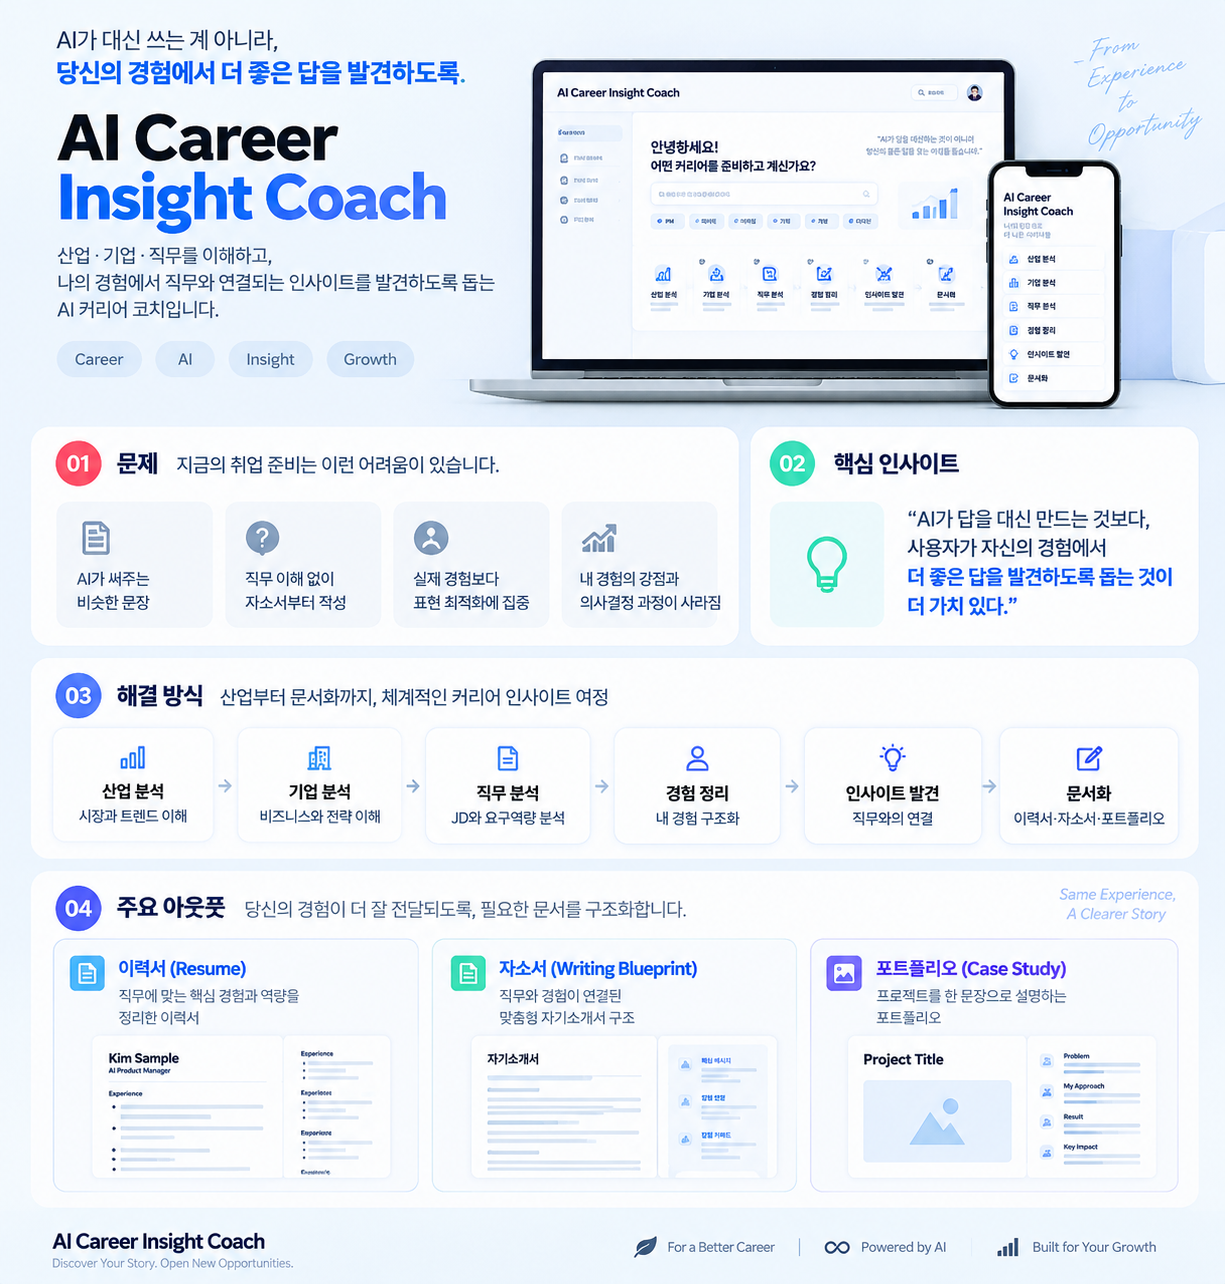
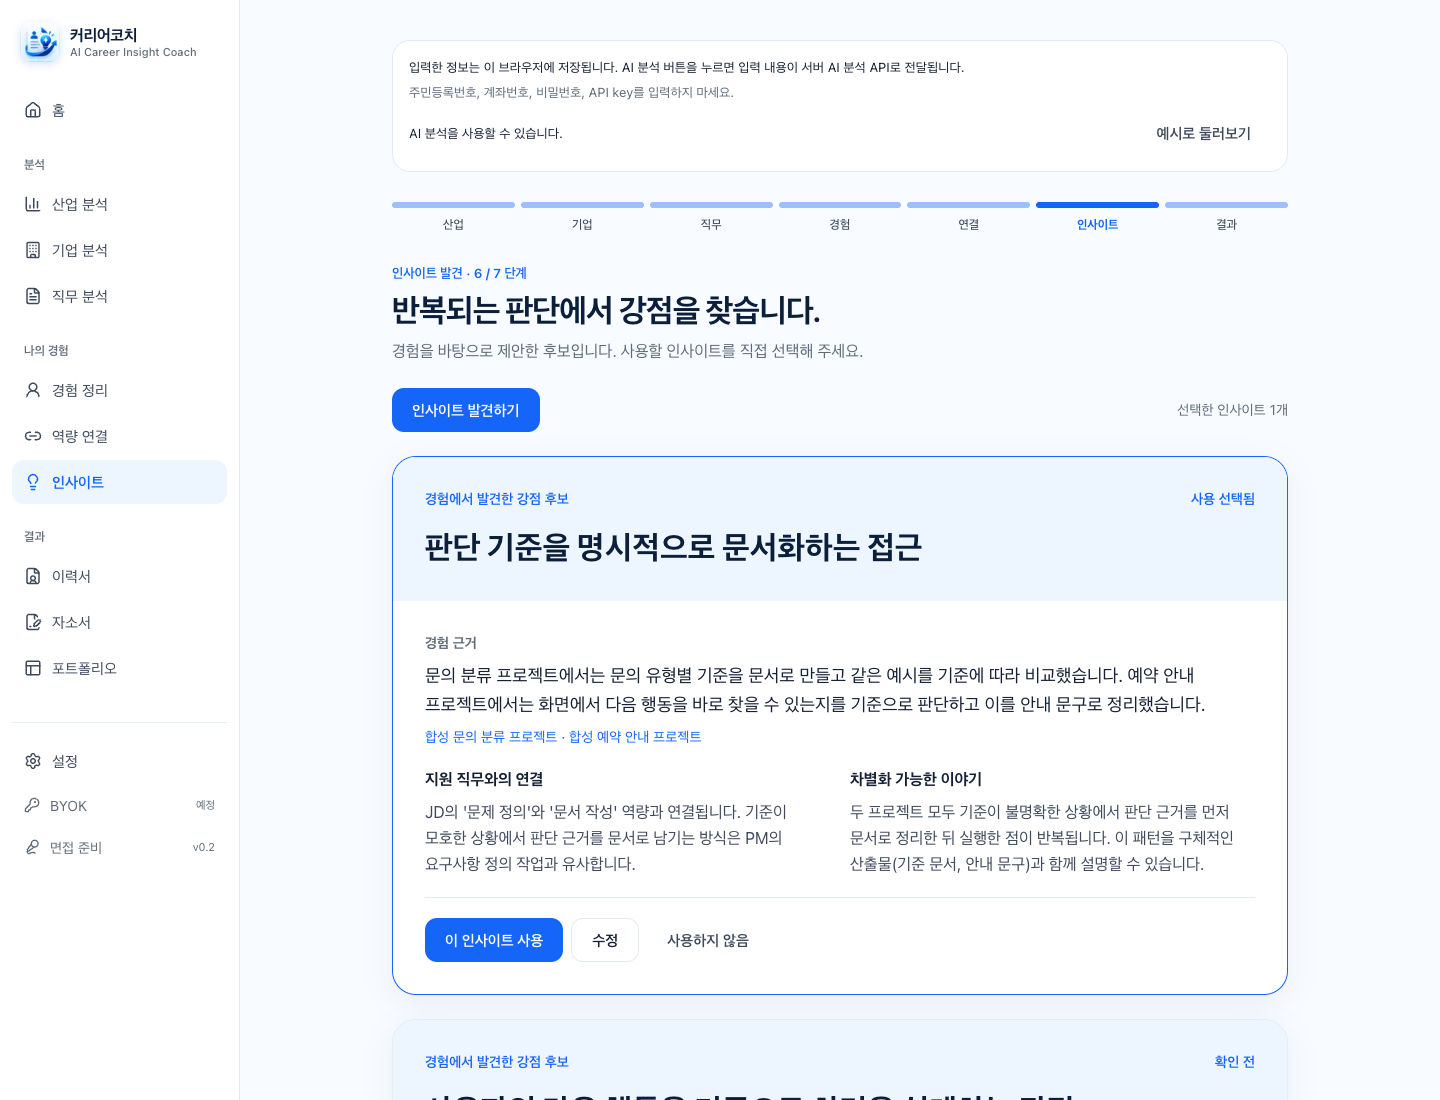
docs: feature verified DasiON and Career Coach production apps

diff --git a/index.html b/index.html
@@ -2,18 +2,35 @@
 <html lang="ko">
 <head>
 <meta charset="utf-8"><meta name="viewport" content="width=device-width,initial-scale=1">
-<meta name="description" content="Derrick Hwang의 제품 포트폴리오. WESOP, ONDA, 다시ON5060, AI Career Insight Coach와 기술 검증 기록.">
+<meta name="description" content="Derrick Hwang의 제품 포트폴리오. 다시ON5060, AI Career Insight Coach, WESOP, ONDA와 기술 검증 기록.">
 <title>Derrick Hwang | 음성 인터페이스와 콘텐츠 자동화를 만듭니다</title>
 <style>
 :root{--ink:#192c38;--muted:#526573;--paper:#f3f6f8;--line:#d3dee4;--brand:#166963}*{box-sizing:border-box}html{scroll-behavior:smooth}body{margin:0;color:var(--ink);background:var(--paper);font:16px/1.75 -apple-system,BlinkMacSystemFont,"Apple SD Gothic Neo","Malgun Gothic",sans-serif}a{color:inherit;text-underline-offset:5px}a:hover{color:var(--brand)}a:focus-visible{outline:3px solid #bd5b20;outline-offset:5px}.wrap{max-width:1180px;margin:auto;padding:0 32px}header{display:flex;align-items:center;justify-content:space-between;gap:24px;padding:25px 0;border-bottom:1px solid var(--line)}.name{font-weight:750;text-decoration:none}nav{display:flex;gap:24px;font-size:14px}nav a{text-decoration:none}.hero{padding:96px 0 80px;max-width:900px}.eyebrow{font-size:13px;letter-spacing:.12em;text-transform:uppercase;color:var(--brand);font-weight:750}h1{font-size:clamp(36px,5.8vw,70px);line-height:1.18;letter-spacing:-.055em;margin:22px 0 28px;font-weight:780}h2{font-size:30px;letter-spacing:-.035em;line-height:1.35}h3{font-size:24px;letter-spacing:-.03em;line-height:1.4}.hero p{max-width:620px;font-size:19px;color:var(--muted)}.section-top{display:flex;justify-content:space-between;align-items:baseline;border-top:1px solid var(--line);padding-top:20px;gap:20px}.section-top span,.note{font-size:13px;color:var(--muted)}.featured{display:grid;grid-template-columns:1fr 1fr;background:white;margin:24px 0 36px;border:1px solid var(--line);overflow:hidden}.feature-copy{padding:42px}.tag{font-size:12px;border:1px solid var(--line);padding:5px 9px;display:inline-block}.feature-copy h3{font-size:36px;margin:20px 0}.feature-copy p{color:var(--muted)}.button{display:inline-block;background:var(--brand);color:white;padding:12px 20px;text-decoration:none;border-radius:5px;margin:12px 0}.button:hover{background:#124f4b;color:white}.screen{background:#e5edef;padding:28px 28px 0;height:590px;overflow:hidden}.screen img{width:100%;height:auto;display:block;border:1px solid var(--line)}.projects{display:grid;grid-template-columns:1fr 1fr;gap:36px}.project{min-width:0}.project .picture{height:320px;overflow:hidden;background:#e5edef;display:flex;justify-content:center}.picture img{width:100%;height:100%;object-fit:contain}.project h3{margin:20px 0 8px}.project p{color:var(--muted)}.project .mobile img{width:auto;max-width:100%;height:100%;object-fit:contain}.text-project{display:grid;grid-template-columns:220px 1fr;gap:30px;padding:26px 0;border-bottom:1px solid var(--line)}.text-project h3{margin:0;font-size:20px}.text-project p{margin:0;color:var(--muted)}.systems{margin:55px 0 70px}.evidence{background:var(--ink);color:#f4f7f9;padding:45px;margin:24px 0 70px}.evidence p{color:#c5d4de;max-width:820px}.evidence a:hover{color:white}.facts{display:grid;grid-template-columns:1fr 1fr;gap:30px;margin:30px 0}.facts strong{display:block;font-size:32px;line-height:1.4}.facts span{color:#c5d4de;font-size:14px}footer{padding:28px 0 48px;border-top:1px solid var(--line);font-size:13px;color:var(--muted)}.footrow{display:flex;justify-content:space-between;gap:24px;flex-wrap:wrap}@media(max-width:720px){.wrap{padding:0 20px}header{align-items:flex-start;gap:14px}nav{gap:14px;font-size:12px}.hero{padding:60px 0 45px}.hero p{font-size:17px}.featured{grid-template-columns:1fr}.feature-copy{padding:26px}.screen{height:380px;padding:20px 20px 0}.projects{grid-template-columns:1fr;gap:28px}.project .picture{height:260px}.text-project{grid-template-columns:1fr;gap:8px}.evidence{padding:26px}.facts{grid-template-columns:1fr;gap:22px}.section-top{flex-wrap:wrap;gap:0}.section-top h2{margin-bottom:6px}}@media(prefers-reduced-motion:reduce){html{scroll-behavior:auto}}.project.wide{grid-column:1/-1}.project.wide .picture{height:380px;align-items:flex-start}.project.wide .picture img{object-fit:cover;object-position:top}@media(max-width:720px){.project.wide .picture{height:auto}.project.wide .picture img{height:auto;object-fit:contain}}
+.featured .screen{height:760px;padding:24px;display:flex;justify-content:center}.featured .screen img{width:auto;max-width:100%;height:100%;object-fit:contain}.project.wide .picture{height:auto}.project.wide .picture img{height:auto;object-fit:contain}.product-links{display:flex;align-items:center;gap:18px;flex-wrap:wrap}.product-links .secondary{background:transparent;border:1px solid var(--brand);color:var(--brand)}.product-links .secondary:hover{background:#e7f2ef}.project .picture img{display:block}@media(max-width:720px){.featured .screen{height:620px;padding:20px}.product-links{gap:10px}.product-links .button{padding:10px 14px}}
 </style>
 </head>
 <body><div class="wrap">
 <header><a class="name" href="#">Derrick Hwang</a><nav aria-label="주 메뉴"><a href="#work">프로젝트</a><a href="#evidence">검증 기록</a><a href="https://github.com/kordp888">GitHub</a></nav></header>
 <main><section class="hero"><div class="eyebrow">AI Product Builder</div><h1>쓸 사람이 다음 행동을<br>알아보는 제품을 만듭니다.</h1><p>음성 인터페이스와 콘텐츠 자동화, 개인 지식 시스템을 다룹니다. 만든 다음에는 실제 조건에서 돌려보고 어디까지 확인됐는지를 같이 남깁니다. 황석하입니다.</p></section>
-<section id="work" aria-labelledby="work-title"><div class="section-top"><h2 id="work-title">만들고 있는 제품</h2><span>화면 캡처 2026.09.10 · 기술 검사 2026.09.09</span></div>
-<article class="featured"><div class="feature-copy"><span class="tag">WESOP · 교육용 프로토타입</span><h3>ShopSol FLEX</h3><p>금요일 저녁 홀 근무에 한 명이 빕니다.<br>누구에게 제안하고, 언제부터 채워진 걸로 봐야 할까요?</p><p>부족 인원 확인에서 후보 비교와 제안을 거쳐 모의 수락, 준비 확인, 관리자 확정까지 이어집니다. 제안하거나 수락하는 것만으로는 인원이 채워지지 않게 했습니다. 그 차이가 화면에서 읽히는지가 이 시안의 질문입니다.</p><a class="button" href="https://wesop-shopsol-prototype.vercel.app/">프로토타입 체험하기</a><p class="note">쓰는 데이터는 전부 합성입니다. 실제 샵솔 연동이나 채용, AI 추천은 없습니다.<br>참여자를 받은 적이 없어 사용자 가설은 아직 미검증입니다.</p></div><div class="screen"><img src="images/wesop.png" width="768" height="1910" alt="ShopSol FLEX 가상 매장 근무표. 필요 5명, 확정 4명, 부족 1명."></div></article>
-<div class="projects"><article class="project"><div class="picture"><img src="images/onda.png" alt="ONDA 주행 안내 화면. 지도 위에 주의 정보와 GPS 속도가 떠 있다." loading="lazy"></div><h3>ONDA</h3><p>앱을 깔지 않고 차량 브라우저에서 바로 들어갑니다. 위치가 흔들릴 때 안내를 이어갈지 멈출지, 그 경계를 정하는 일이 설계의 대부분이었습니다.</p><p class="note">현재 빌드의 데모 주행 화면입니다. 좌표와 단속 정보는 모의 데이터입니다.</p></article><article class="project"><div class="picture mobile"><img src="images/dasion5060.png" alt="다시ON5060의 음성 질문과 생활 과제 버튼" loading="lazy"></div><h3>다시ON5060</h3><p>디지털이 낯선 분들이 음성으로 묻고 다음에 뭘 눌러야 할지 찾는 화면입니다. 자주 막히는 생활 과제를 위로 뺐습니다.</p><p class="note">현재 빌드 화면입니다. 고령 사용자 사용성 결과는 아직 없습니다.</p></article><article class="project wide"><div class="picture"><img src="images/career-insight-coach.png" alt="AI Career Insight Coach 소개 인포그래픽. 산업 분석, 기업 분석, 직무 분석, 경험 정리, 인사이트 발견, 문서화로 이어지는 흐름." loading="lazy"></div><h3>AI Career Insight Coach</h3><p>자소서를 대신 써주는 AI는 이미 많습니다. 그렇게 나온 문장은 서로 닮아 가고, 지원자가 실제로 내린 판단은 빠집니다. 그래서 순서를 바꿨습니다. 산업과 기업, 직무를 먼저 이해하고, 자기 경험에서 그 직무와 이어지는 인사이트를 찾은 다음에 이력서와 자기소개서로 넘어갑니다.</p><p class="note">공개 저장소에는 제품 개요와 경험 정리 템플릿, 가상 지원자 예시만 있습니다. 이미지 속 화면은 콘셉트 시안입니다. <a href="https://github.com/kordp888/career-insight-coach">저장소 보기</a></p></article></div>
+<section id="work" aria-labelledby="work-title"><div class="section-top"><h2 id="work-title">만들고 있는 제품</h2><span>다시ON·Career Coach 공개 화면 확인 2026.09.13</span></div>
+<article class="featured">
+<div class="feature-copy"><span class="tag">한국어 음성 우선 생활 도우미</span><h3>다시ON5060<br>한 번에 한 단계</h3>
+<p>디지털 환경이 낯선 사용자가 말로 질문하면 지금 해야 할 행동 한 단계만 안내합니다.</p><p>큰 질문 버튼을 먼저 보여주고, 사진 보내기와 글씨 크게 보기처럼 자주 막히는 생활 과제를 앞으로 뺐습니다.</p>
+<div class="product-links"><a class="button" href="https://dasion-app.vercel.app">웹앱 사용하기</a><a class="button secondary" href="https://github.com/kordp888/dasi-on5060">GitHub 보기</a></div>
+<p class="note">2026.09.13 Production 홈 화면입니다. 고령 사용자 사용성 결과나 실기기 음성 검사를 뜻하지 않습니다.</p></div>
+<div class="screen"><img src="images/dasion5060.png" width="430" height="1000" alt="다시ON5060 Production 홈. 음성 질문 버튼과 사진 보내기, 글씨 크게 등 생활 과제."></div>
+</article>
+<div class="projects">
+<article class="project wide">
+<div class="picture"><img src="images/career-insight-coach.png" width="1440" height="1100" alt="합성 경험 두 개를 실제 AI로 분석한 Career Coach Production 인사이트 화면. 사용자가 강점 후보를 선택한 상태." loading="lazy"></div>
+<h3>AI Career Insight Coach</h3><p>산업과 기업, 직무를 분석하고 여러 경험에서 찾은 인사이트를 직접 선택한 뒤 이력서·자기소개서·포트폴리오를 만듭니다. 자기소개서는 설계안을 먼저 확인하고 초안을 요청합니다.</p>
+<div class="product-links"><a class="button" href="https://career-insight-coach.vercel.app">웹앱 사용하기</a><a class="button secondary" href="https://github.com/kordp888/career-insight-coach">GitHub 보기</a></div>
+<p>실제 AI 분석이 가능한 웹앱입니다. 지원 전 결과를 사용자가 직접 확인하고 수정하도록 설계했습니다.</p>
+<p class="note">2026.09.13 Production에서 합성 경험 두 개로 분석부터 문서 세 종류 생성까지 확인했습니다. 예시 모드가 아닌 실제 AI 응답을 캡처했습니다. 합격률이나 사용자 성과는 검증하지 않았습니다. <a href="VERIFICATION.md">검사 범위 읽기</a></p>
+</article>
+<article class="project"><div class="picture mobile"><img src="images/wesop.png" width="768" height="1910" alt="ShopSol FLEX 가상 매장 근무표. 필요 5명, 확정 4명, 부족 1명." loading="lazy"></div><h3>WESOP · ShopSol FLEX</h3><p>부족 인원 확인에서 후보 비교와 제안을 거쳐 모의 수락, 준비 확인, 관리자 확정까지 이어집니다. 제안하거나 수락하는 것만으로는 인원이 채워지지 않게 했습니다.</p><a class="button" href="https://wesop-shopsol-prototype.vercel.app/">프로토타입 체험하기</a><p class="note">교육용 프로토타입입니다. 데이터는 전부 합성이며 실제 샵솔 연동이나 채용, AI 추천은 없습니다. 사용자 가설은 아직 미검증입니다.</p></article>
+<article class="project"><div class="picture"><img src="images/onda.png" alt="ONDA 주행 안내 화면. 지도 위에 주의 정보와 GPS 속도가 떠 있다." loading="lazy"></div><h3>ONDA</h3><p>앱을 깔지 않고 차량 브라우저에서 바로 들어갑니다. 위치가 흔들릴 때 안내를 이어갈지 멈출지, 그 경계를 정하는 일이 설계의 대부분이었습니다.</p><p class="note">현재 빌드의 데모 주행 화면입니다. 좌표와 단속 정보는 모의 데이터입니다.</p></article>
+</div>
 <div class="systems"><article class="text-project"><h3>콘텐츠 자동화</h3><p>자료와 원고, 음성, 영상, 검수를 이어 붙였습니다. 손이 많이 간 쪽은 생성이 아니라 그 다음이었습니다. 실패하면 어느 단계까지 성공했는지를 남겨 거기서 다시 시작합니다.</p></article><article class="text-project"><h3>LLM Wiki</h3><p>흩어진 참고자료와 결정 기록을 모아 새 작업에 필요한 것만 골라 옵니다. 저장됐다는 사실과 실제로 쓰였다는 사실은 따로 봅니다.</p></article><article class="text-project"><h3>Signal Crew</h3><p>할 일과 진행 상태, 주고받은 맥락을 한 화면에서 읽는 제품입니다. 업무 내용이 그대로 보이는 운영 화면이라 여기에는 싣지 않았습니다.</p></article></div></section>
 <section id="evidence" aria-labelledby="evidence-title"><div class="section-top"><h2 id="evidence-title">확인한 것과 아직인 것을 나눠 적었습니다.</h2></div><div class="evidence"><div class="eyebrow" style="color:#b0dcd7">Technical checks · 2026.09.09</div><div class="facts"><div><strong>58개 / 278개</strong><span>WESOP 보관 기록의 단위·빌드 검사 / 공개 HTTPS 브라우저 검사 통과</span></div><div><strong>113개 통과</strong><span>운영 도구 로컬 테스트. 개별 제품 전체 검사 수와 구분합니다.</span></div></div><p>기술 검사가 통과했다는 것과 사용자가 만족했다는 것은 다른 이야기입니다. WESOP은 실제 참여자 테스트와 물리 기기 검사를 아직 하지 않았고, 채용 성과나 사업 효과도 말할 단계가 아닙니다.</p><a href="VERIFICATION.md">검사 범위와 한계 읽기</a></div></section>
-</main><footer><div class="footrow"><span>Derrick Hwang · 음성 인터페이스와 콘텐츠 자동화를 만듭니다</span><a href="https://github.com/kordp888/portfolio-showcase">공개 포트폴리오 저장소</a></div><p>소개와 선별한 화면, 검증 요약만 공개합니다. 제품 소스와 프롬프트, 내부 자료는 비공개입니다. 이 소개 페이지의 정적 HTML과 CSS는 공개됩니다.</p></footer></div></body></html>
+</main><footer><div class="footrow"><span>Derrick Hwang · 음성 인터페이스와 콘텐츠 자동화를 만듭니다</span><a href="https://github.com/kordp888/portfolio-showcase">공개 포트폴리오 저장소</a></div><p>이 저장소에는 소개와 선별한 화면, 검증 요약만 공개합니다. 각 제품의 공개 범위는 해당 저장소 안내를 따릅니다. 비공개 운영 코드와 프롬프트, 내부 자료는 싣지 않습니다.</p></footer></div></body></html>

diff --git a/VERIFICATION.md b/VERIFICATION.md
@@ -1,6 +1,28 @@
 # 검증 기록
 
-기준일: 2026-09-09
+기준일: 2026-09-13. 과거 검사는 각 항목에 실행일을 따로 표시합니다.
+
+## Career Coach Production 확인 (2026-09-13)
+
+[실제 웹앱](https://career-insight-coach.vercel.app)의 Git 자동 배포를 확인했습니다.
+배포된 버전 `b4e591f7f0a9`는 당시 main 커밋과 일치합니다. 수동 배포는 사용하지 않았습니다.
+홈, `/coach`, `/api/status`, `/api/version`은 모두 HTTP 200이었고 AI 연결 상태도 정상이었습니다.
+
+산업·기업·직무 분석, 경험 보완, 인사이트, 문서 생성의 여섯 작업이 실제 AI 응답을 반환했습니다.
+빈 입력은 HTTP 400, 제한된 요청은 HTTP 429로 처리되는 것을 확인했습니다.
+
+개인정보 없는 합성 경험 두 개를 브라우저에 직접 입력했습니다. 경험 보완과 역량 연결,
+인사이트 선택, 자소서 설계안과 초안, 이력서 문장, 포트폴리오 Case Study 생성까지 완료했습니다.
+문서 수정과 복사, 새로고침 후 저장 유지, JSON 내보내기·삭제·불러오기,
+잘못된 JSON 거부와 예시 공간 분리도 확인했습니다.
+
+AI 요청을 브라우저에서 의도적으로 실패시킨 검사에서는 여섯 화면 모두 오류를 표시했습니다.
+예시 데이터로 자동 대체하지 않았습니다. 같은 화면의 HTTP 429 안내도 검사했습니다.
+375·390·430·768·1024·1440px 브라우저 화면에서 가로 넘침이 없었고,
+정상 사용 흐름에서 브라우저 콘솔 오류가 없었습니다. 물리 기기 검사는 아닙니다.
+
+이 기록은 해당 시점의 기능 동작 검사입니다. AI 분석의 사실 정확도나 합격률,
+실제 사용자 성과, 상시 가용성을 검증한 것은 아닙니다.
 
 ## 직접 확인한 기술 결과
 
@@ -16,10 +38,15 @@
 
 WESOP은 2026-09-09 보관된 QA 기록의 단위·빌드 검사 58개와 공개 HTTPS 브라우저 검사 278개 통과를 요약했습니다. 이 페이지를 만들며 해당 제품 검사를 다시 실행한 것은 아닙니다. 실제 참여자 0명, 사용자 가설 NOT_RUN, 물리 기기 검사는 미실행입니다. 공개 화면의 매장·근무·후보는 합성 데이터입니다. 실제 서비스 MVP나 기업의 공식 출시 제품으로 소개하지 않습니다.
 
-ONDA와 다시ON5060 이미지는 보관된 인터페이스 화면입니다.
-계정·연락처·실제 위치·원본 업무 기록이 보이지 않는 화면을 선별했습니다.
-화면 이미지의 존재를 현재 배포, 실기기 검사, 사용자 테스트의 증거로 바꾸지 않습니다.
-AI Career Insight Coach 이미지는 콘셉트 인포그래픽입니다. 그 안의 화면은 시안이며 배포나 사용자 테스트 결과가 아닙니다.
+ONDA는 2026-09-10 보관된 데모 주행 화면입니다. 좌표와 단속 정보는 모의 데이터입니다.
+실차 주행이나 출시 승인을 뜻하지 않습니다.
+
+다시ON5060 이미지는 2026-09-13 [Production 홈](https://dasion-app.vercel.app)에서 새로 캡처했습니다.
+홈의 HTTP 200과 정상 화면, 브라우저 콘솔 오류 없음을 확인했습니다.
+고령 사용자 사용성 결과와 실기기 음성 검사는 이번 범위에 포함하지 않았습니다.
+
+AI Career Insight Coach 이미지는 같은 날 Production에서 실제 AI로 생성한 인사이트 화면입니다.
+테스트용 합성 경험만 사용했습니다. 계정·연락처·실제 위치·원본 업무 기록은 포함하지 않았습니다.
 
 ## 공개하지 않는 자료
 
